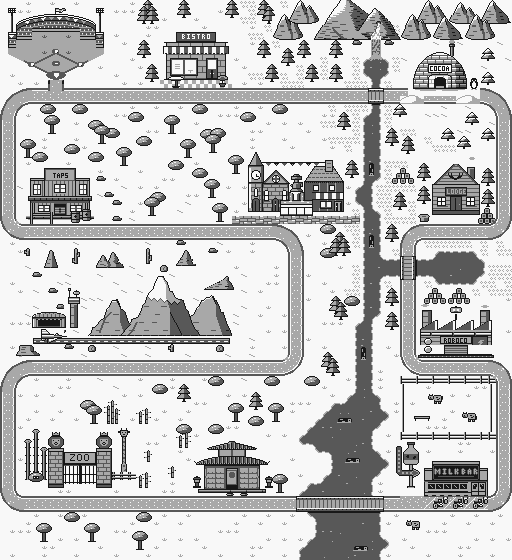
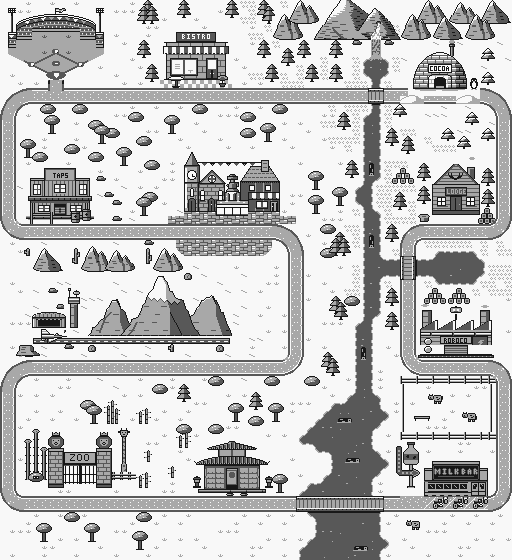
Story map: desert peaks A2 and town B (owner Q6 "a2", Q7 "yes", 11-08), with the band's rounded ends
tools/dev/smap_snapshot.py now runs the proposal pipeline through docs/dev/proposals/smap_owner_1108/ctx.py with OWNER_FLAGS = A2,B1,B2,B3,B4 (set in dump(), not an
env hook): A2 the round 3 snowy peaks on the desert palette above the big desert mountain (a ridge of two plus two singles, the barrel cactus at (23, 34), the old
scattered peaks gone); B1 the tavern awning, B2 the paving up to the building fronts and a paved band south of the road, B3 the town 8 cells west ((31,19) -> (23,19)),
stop (296,236) -> (232,236), the space->town leg gets the waypoint (296,236), the fountain and its repair cells move with the town, the trees are re-laid;
B4 (new, owner_pre.post) rounds the bottom ends of the band: a quarter circle of r 12 px each end, the cut-away pixels show the ground (the east end takes town1@g;
the west end shows the town palette's light colour on sand; a cell that would lose one pixel only stays whole). The band's row 31 reaches one cell further west.
Q8 (tea house, bend wedges) is untouched.

DMG_TRIM: the six old cells are unchanged (top right, not touched by the town shift); one more: (4, 32, 7, 3, 2, 1), the left single peak's foot cell, so that the
21 x 19 window at (4, 23) is 176 of 176 (it was 177).

tests/test_story_map_enter.py (test_the_old_screen_stays_as_it_is_until_the_lcd_goes_off, pour_off): the window's top edge is masked from the next frame's WY (the
[…]

Changed region(s): [[0.1562, 0.2125, 0.7188, 0.5161], [0.0625, 0.4554, 0.125, 0.5161], [0.4062, 0.4857, 0.4688, 0.5161]]

diff --git a/docs/dev/proposals/smap_owner_1108/owner_pre.py b/docs/dev/proposals/smap_owner_1108/owner_pre.py
@@ -4,6 +4,8 @@ Proposal B, the town (flags in env OWNER, e.g. OWNER=B1,B2,B3):
   B1  the tavern's awning (the rightmost building): an ink edge on its left, a peach hem row and an ink fringe (hand-typed below)
   B2  the paving: the cobbles run up to the building fronts (the strip y 60..63 under the tower, the hall and the tavern was bare grass), and a band of the same cobbles lies south of the road,
       so the road runs through the square
+  B4  the ends of the paved band south of the road are rounded (post(W), run after the world is built): a quarter circle of r 12 px (the bottom corners only; the top meets the road square) at each end, the cut-away pixels show the ground (sand at the west
+      end, grass at the east end: those cells take the grass palette town1@g); the west end of row 31 reaches one cell further (cell 22) so the curve has room
   B3  the town moves SHIFT cells west (default 8, env OWNER_SHIFT): the venue cell, the stop, the legs, the apron, the zone, and the trees the new footprint covers move with it
 
 Placement and typed pixels only: nothing is generated.  Everything is read by ctx.py through the flags, so the unflagged map is byte for byte the snapshot."""
@@ -79,7 +81,7 @@ def apron_cells(cx0):
     """B2: row 27 two cells past the picture on each side (as before), the paved band south of the road (rows 30, 31), one cell wider than the picture each side, stopping short of the bend"""
     cells = [(cx0 - 2, 27), (cx0 - 1, 27), (cx0 + TOWN_W, 27), (cx0 + TOWN_W + 1, 27)]
     if "B2" in FLAGS:
-        for y, (a, b) in ((30, (cx0 - 1, cx0 + TOWN_W)), (31, (cx0, cx0 + TOWN_W - 1))):
+        for y, (a, b) in ((30, (cx0 - 1, cx0 + TOWN_W)), (31, (cx0 - 1, cx0 + TOWN_W - 1))):
             cells += [(x, y) for x in range(a, min(b, BEND_X - 1) + 1)]
     return cells
 
@@ -180,3 +182,35 @@ def relocate(scenery, nx, ny, d):
 
 MOVED = []
 DROPPED = []
+
+
+# ---- B4: the band's rounded ends (hand-placed: a quarter circle at each end, the same cobble texture, the ground showing in the cut-away pixels) -------------------------------------------------
+def post(W):
+    """round the two free ends of the band (rows 30, 31 of cells; the road lies above it).  Both data sets get the same pixels.  Needs B2 (the band) and B3 (the town's place)"""
+    cx0 = town_cell()[0]
+    x_w = (cx0 - 1) * 8                                  # the band's west end (px)
+    x_e = (min(cx0 + TOWN_W, BEND_X - 1) + 1) * 8        # its east end (px, exclusive)
+    y0 = 30 * 8
+    R = 12
+    yc = y0 + 16 - R                                    # the circles' centre row: the top (against the road) stays square, only the bottom corners are cut
+    gone = {}
+    for (x0, x1, cxc, west) in ((x_w, x_w + R, x_w + R, True), (x_e - R, x_e, x_e - R, False)):
+        for y in range(y0, y0 + 16):
+            for x in range(x0, x1):
+                inside = (x + .5 - cxc) ** 2 + (y + .5 - yc) ** 2 <= R * R or y + .5 <= yc
+                if not inside:
+                    gone.setdefault((x // 8, y // 8, west), []).append((x, y))
+    cells = set()
+    for (cx, cy, west), px in gone.items():
+        if len(px) <= 1:                                 # a cell that would lose one pixel only stays whole (it would be one more DMG tile for nothing)
+            continue
+        cells.add((cx, cy, west))
+        for (x, y) in px:
+            for w in (W.WORLD, W.WORLD_DMG):
+                w.px[y][x] = 0
+    for (cx, cy, west) in sorted(cells):
+        assert W.WORLD.pal[cy][cx] in ("town1", "town1@g"), (cx, cy, W.WORLD.pal[cy][cx])
+        if not west:
+            for w in (W.WORLD, W.WORLD_DMG):
+                w.pal[cy][cx] = "town1@g"
+    return sorted(cells)

diff --git a/tools/dev/smap_snapshot.py b/tools/dev/smap_snapshot.py
@@ -33,7 +33,11 @@ FALLS = "A"                     # <- the falls / mountain interface swap point: 
 FALLS_ANIM_CELLS = [(47, 3), (46, 4), (47, 4)]      # falls A's animated cells (4 images each): pinned from the flip-merge; stage 3's engine table
 # DMG only, one pixel each: (cell x, cell y, pixel x, pixel y, old shade, new shade).  They make six DMG tiles of the top right (falls A, the igloo and the east road) equal to a neighbour's, so that
 # no padded path window (23 x 21 cells) needs more than the DMG's 176 tiles (it was 179 at cells 41..63 x 1..20; the camera would have stalled).  Each is a speck at a cell edge.
-DMG_TRIM = [(52, 1, 7, 3, 1, 2), (50, 2, 7, 7, 0, 1), (50, 4, 0, 7, 3, 0), (53, 6, 5, 7, 3, 0), (51, 8, 7, 7, 3, 0), (58, 8, 0, 7, 3, 0)]
+DMG_TRIM = [(52, 1, 7, 3, 1, 2), (50, 2, 7, 7, 0, 1), (50, 4, 0, 7, 3, 0), (53, 6, 5, 7, 3, 0), (51, 8, 7, 7, 3, 0), (58, 8, 0, 7, 3, 0),
+            (4, 32, 7, 3, 2, 1)]                                 # the desert ridge (A2, 11-08): the left single peak's foot cell lost its one speck to equal the right peak's foot cell (the 21 x 19 window at 4, 23 was 177)
+# The owner's map changes of 11-08 (Q6 "a2", Q7 "yes", docs/dev/proposals/smap_owner_1108): A2 desert peaks (prop_a.py), B1 awning, B2 paving, B3 the town 8 cells west, B4 the band's rounded ends (owner_pre.py).
+# ctx.py applies them to the proposal pipeline; they are part of the integrated map now, so dump() always sets this.
+OWNER_FLAGS = "A2,B1,B2,B3,B4"
 MAP_ENV = {"SMAP_TEA_PASS": "1", "SMAP_TEA_TEX": TEA_LEVEL}
 if FALLS != "cave":
     MAP_ENV["SMAP_FALLS"] = FALLS
@@ -44,8 +48,9 @@ def dump(path, broken):
     os.environ.update(MAP_ENV)
     if broken:
         os.environ["SMAP_BROKEN"] = "1"
-    sys.path.insert(0, str(PROP / "smap_tea_pass"))
-    import swap  # noqa: F401  (puts the teahouse art in place of tools/smap_world/v_tea.py)
+    os.environ["OWNER"] = OWNER_FLAGS
+    sys.path.insert(0, str(PROP / "smap_owner_1108"))
+    import ctx  # noqa: F401  (the tea pass swap, the proposal pipeline's paths and the owner changes of 11-08 on top of it)
     sys.path.insert(0, str(PROP / "smap_import"))
     if TEA_ART != "v_tea_pass":
         sys.path.insert(0, str(PROP / "smap_tea_pass"))

diff --git a/docs/dev/proposals/smap_owner_1108/ctx.py b/docs/dev/proposals/smap_owner_1108/ctx.py
@@ -24,7 +24,7 @@ import swap  # noqa: E402,F401
 sys.path.insert(0, str(PROP / "smap_import"))
 if FLAGS & {"A1", "A2"}:
     os.environ["SMAP_DESERT_PIECES"] = "cacti"              # the five scattered desert peaks are not laid: prop_a.py lays the new ones
-if FLAGS & {"B1", "B2", "B3"}:
+if FLAGS & {"B1", "B2", "B3", "B4"}:
     os.environ["SMAP_PRE_WORLD"] = "owner_pre"
 if "B2" in FLAGS and not FLAGS & {"A1", "A2"}:
     os.environ["SMAP_SKIP_DESERT"] = "cone"                 # the paved band south of the road covers the top of the old desert peak "cone" (cells 22..24 x 31..33): it is not laid
@@ -43,3 +43,6 @@ if FLAGS & {"A1", "A2"}:
 if FLAGS & {"C", "C2", "C3"}:
     import prop_c
     CHANGED_C = prop_c.apply(W, M.PAL, sorted(FLAGS & {"C", "C2", "C3"})[0])
+if "B4" in FLAGS:
+    import owner_pre
+    ROUNDED_B = owner_pre.post(W)

diff --git a/tests/test_story_map_enter.py b/tests/test_story_map_enter.py
@@ -91,7 +91,7 @@ def test_the_old_screen_stays_as_it_is_until_the_lcd_goes_off(model, name, varia
         sprite_mask(oam, m)
         sprite_mask(poam, m)
         poam = oam
-        m[window_top(r):, :] = True
+        m[min(window_top(r), window_top(frames[i + 1][1])):, :] = True      # (a frame's picture shows the window one step higher than its registers say: where the top edge crosses a dark pixel of the map (the desert peaks west of the town, 11-08) that tile differs)
         for y in range(0, 144, 8):
             for x in range(0, 160, 8):
                 assert m[y:y + 8, x:x + 8].any() or a[y:y + 8, x:x + 8].tobytes() in known, f"frame {i}: a foreign tile at {x},{y}"
